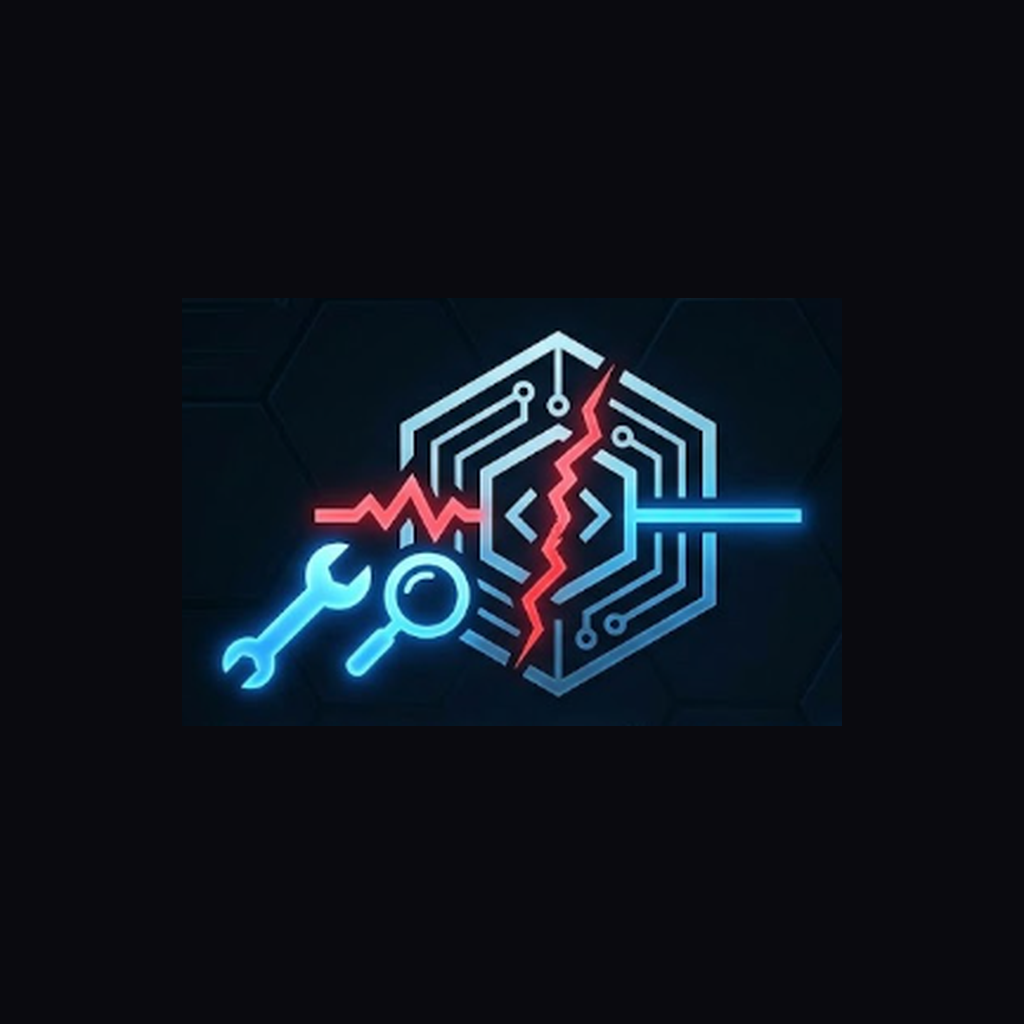
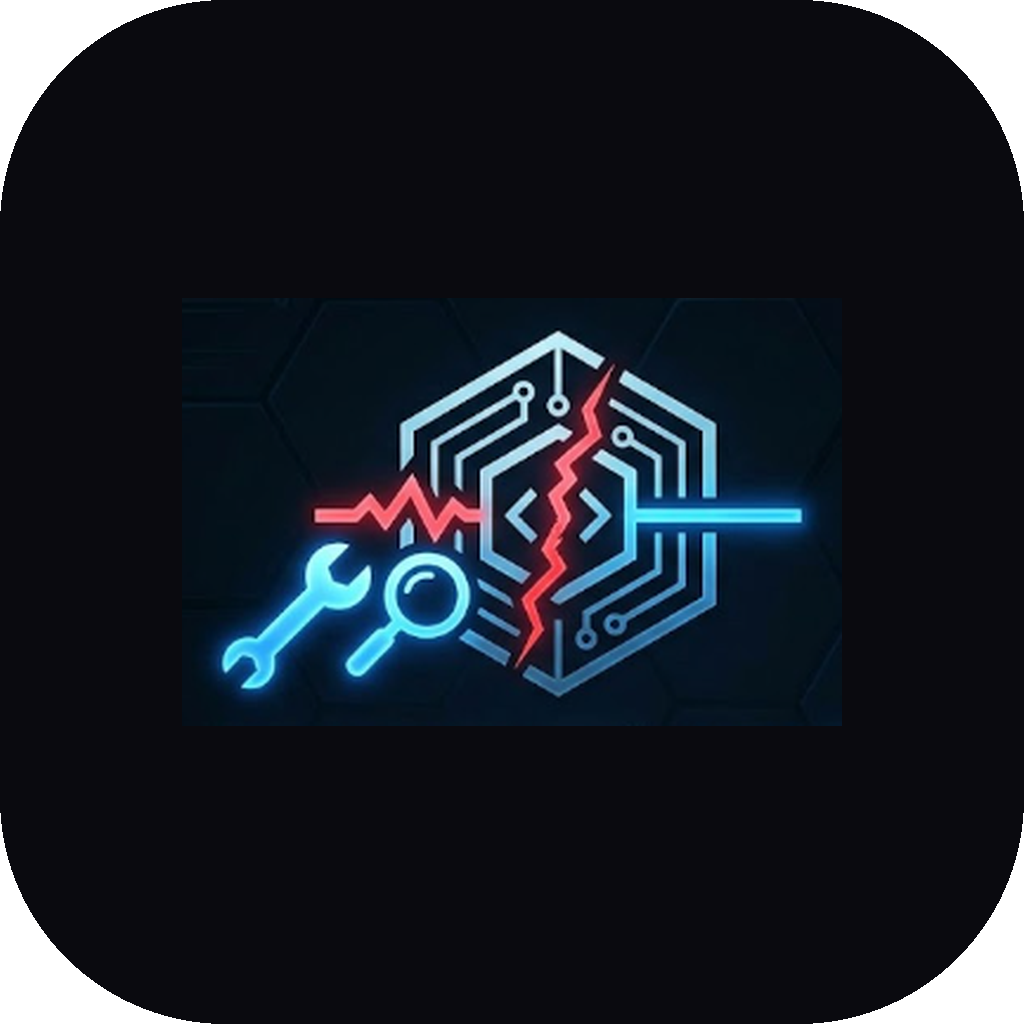
optimize apk github build

diff --git a/src/screens/ChallengeScreen.jsx b/src/screens/ChallengeScreen.jsx
@@ -1,7 +1,7 @@
 import React, { useEffect, useState, useRef } from "react";
-import { View, Text, TextInput, ScrollView, StyleSheet, Pressable, ActivityIndicator } from "react-native";
+import { View, Text, TextInput, ScrollView, StyleSheet, Pressable, ActivityIndicator, Alert } from "react-native";
 import AsyncStorage from "@react-native-async-storage/async-storage";
-import { Play, Send, RotateCcw, Trophy, CheckCircle2, AlertTriangle, ChevronRight } from "lucide-react-native";
+import { Play, Send, RotateCcw, Trophy, CheckCircle2, AlertTriangle, ChevronRight, Lock, Database } from "lucide-react-native";
 import api from "../api/axios";
 import { useAuth } from "../context/AuthContext";
 import { useSettings } from "../context/SettingsContext";
@@ -31,6 +31,9 @@ export default function ChallengeScreen({ route, navigation }) {
   const [loading, setLoading] = useState(true);
   const [running, setRunning] = useState(false);
   const [nextSlug, setNextSlug] = useState(null);
+  const [solution, setSolution] = useState(null);
+  const [solutionLoading, setSolutionLoading] = useState(false);
+  const [usedSolution, setUsedSolution] = useState(false);
 
   useEffect(() => {
     (async () => {
@@ -50,6 +53,8 @@ export default function ChallengeScreen({ route, navigation }) {
     setStatus("idle");
     setAttempts(0);
     setReward(null);
+    setSolution(null);
+    setUsedSolution(false);
   }, [slug]);
 
   useEffect(() => {
@@ -85,8 +90,32 @@ export default function ChallengeScreen({ route, navigation }) {
     AsyncStorage.removeItem(draftKey(slug));
   };
 
+  const revealSolution = () => {
+    Alert.alert(
+      "Reveal solution?",
+      "This drops the reward for this challenge to 30% XP and coins, and skips any daily bonus. Your progress isn't affected either way.",
+      [
+        { text: "Cancel", style: "cancel" },
+        {
+          text: "Reveal",
+          style: "destructive",
+          onPress: async () => {
+            setSolutionLoading(true);
+            try {
+              const { data } = await api.get(`/challenges/${slug}/solution`);
+              setSolution(data.solution);
+              setUsedSolution(true);
+            } finally {
+              setSolutionLoading(false);
+            }
+          },
+        },
+      ]
+    );
+  };
+
   const submit = async () => {
-    const { data } = await api.post(`/challenges/${slug}/submit`, { code, attempts, usedSolution: false });
+    const { data } = await api.post(`/challenges/${slug}/submit`, { code, attempts, usedSolution });
     setReward(data);
     AsyncStorage.removeItem(draftKey(slug));
     setUser((prev) => (prev ? { ...prev, xp: prev.xp + data.xpEarned, coins: prev.coins + data.coinsEarned } : prev));
@@ -109,9 +138,9 @@ export default function ChallengeScreen({ route, navigation }) {
       <Text style={styles.title}>{challenge.title}</Text>
 
       <View style={styles.tabRow}>
-        {["report", "hints", "objective"].map((t) => (
+        {["report", "hints", "objective", ...(challenge.schema ? ["schema"] : []), "solution"].map((t) => (
           <Pressable key={t} onPress={() => setTab(t)} style={[styles.tabBtn, tab === t && styles.tabBtnActive]}>
-            <Text style={[styles.tabText, tab === t && styles.tabTextActive]}>
+            <Text style={[styles.tabText, tab === t && styles.tabTextActive]} numberOfLines={1}>
               {t === "report" ? "Bug Report" : t[0].toUpperCase() + t.slice(1)}
             </Text>
           </Pressable>
@@ -122,7 +151,70 @@ export default function ChallengeScreen({ route, navigation }) {
         {tab === "report" && <Text style={styles.bodyText}>{challenge.bugReport}</Text>}
         {tab === "hints" && challenge.hints.map((h, i) => <Text key={i} style={styles.bodyText}>• {h}</Text>)}
         {tab === "objective" && <Text style={styles.bodyText}>{challenge.objective}</Text>}
+
+        {tab === "schema" && challenge.schema && (
+          <View>
+            <View style={styles.schemaHeaderRow}>
+              <Database size={13} color={colors.cyan} />
+              <Text style={styles.schemaDialect}>{challenge.schema.dialect} schema</Text>
+            </View>
+            {challenge.schema.tables.map((t) => (
+              <View key={t.name} style={{ marginTop: 10 }}>
+                <Text style={styles.schemaTableName}>{t.name}</Text>
+                <View style={styles.schemaCreateBlock}>
+                  <Text style={styles.schemaCreateText}>{t.create}</Text>
+                </View>
+                <ScrollView horizontal showsHorizontalScrollIndicator={false} style={{ marginTop: 8 }}>
+                  <View>
+                    <View style={styles.schemaRow}>
+                      {t.columns.map((c) => (
+                        <Text key={c} style={styles.schemaHeaderCell}>{c}</Text>
+                      ))}
+                    </View>
+                    {t.rows.map((r, ri) => (
+                      <View key={ri} style={[styles.schemaRow, ri % 2 === 1 && { backgroundColor: colors.surface2 }]}>
+                        {r.map((cell, ci) => (
+                          <Text key={ci} style={styles.schemaCell}>{String(cell)}</Text>
+                        ))}
+                      </View>
+                    ))}
+                  </View>
+                </ScrollView>
+              </View>
+            ))}
+          </View>
+        )}
+
+        {tab === "solution" &&
+          (solution ? (
+            <View style={styles.solutionBlock}>
+              <Text style={styles.solutionText}>{solution}</Text>
+            </View>
+          ) : (
+            <View>
+              <View style={styles.solutionWarnRow}>
+                <Lock size={14} color={colors.warn} />
+                <Text style={styles.bodyText}>
+                  Revealing the solution drops this challenge's reward to 30% XP and coins, and skips any daily bonus.
+                </Text>
+              </View>
+              <Pressable onPress={revealSolution} style={styles.revealBtn} disabled={solutionLoading}>
+                {solutionLoading ? (
+                  <ActivityIndicator color={colors.text} size="small" />
+                ) : (
+                  <Text style={styles.revealBtnText}>Reveal Solution</Text>
+                )}
+              </Pressable>
+            </View>
+          ))}
       </Card>
+
+      {usedSolution && (
+        <View style={styles.usedSolutionBanner}>
+          <Lock size={12} color={colors.warn} />
+          <Text style={styles.usedSolutionText}>Solution revealed — this submission will earn a reduced reward.</Text>
+        </View>
+      )}
 
       <Text style={styles.fileLabel}>{challenge.fileName}</Text>
       <TextInput
@@ -214,6 +306,67 @@ const getStyles = (colors) =>
     tabText: { color: colors.muted, fontSize: 11, fontWeight: "600" },
     tabTextActive: { color: colors.text },
     bodyText: { color: colors.muted, fontSize: 12, lineHeight: 18, marginBottom: 4 },
+    schemaHeaderRow: { flexDirection: "row", alignItems: "center", gap: 6, marginBottom: 2 },
+    schemaDialect: { color: colors.cyan, fontSize: 11, fontFamily: "Courier", fontWeight: "600" },
+    schemaTableName: { color: colors.text, fontSize: 12, fontWeight: "700", marginBottom: 6 },
+    schemaCreateBlock: {
+      backgroundColor: editorColors.background,
+      borderWidth: 1,
+      borderColor: editorColors.border,
+      borderRadius: 8,
+      padding: 10,
+    },
+    schemaCreateText: { color: editorColors.text, fontFamily: "Courier", fontSize: 11.5, lineHeight: 17 },
+    schemaRow: { flexDirection: "row", borderBottomWidth: 1, borderBottomColor: colors.border },
+    schemaHeaderCell: {
+      minWidth: 110,
+      paddingVertical: 7,
+      paddingHorizontal: 10,
+      color: colors.muted,
+      fontSize: 10.5,
+      fontFamily: "Courier",
+      fontWeight: "700",
+      borderBottomWidth: 1,
+      borderBottomColor: colors.border,
+    },
+    schemaCell: {
+      minWidth: 110,
+      paddingVertical: 7,
+      paddingHorizontal: 10,
+      color: colors.text,
+      fontSize: 11,
+      fontFamily: "Courier",
+    },
+    solutionWarnRow: { flexDirection: "row", alignItems: "flex-start", gap: 8, marginBottom: 12 },
+    revealBtn: {
+      backgroundColor: colors.surface2,
+      borderWidth: 1,
+      borderColor: colors.warn,
+      borderRadius: 8,
+      paddingVertical: 10,
+      alignItems: "center",
+    },
+    revealBtnText: { color: colors.warn, fontSize: 12, fontWeight: "600" },
+    solutionBlock: {
+      backgroundColor: editorColors.background,
+      borderWidth: 1,
+      borderColor: editorColors.border,
+      borderRadius: 8,
+      padding: 12,
+    },
+    solutionText: { color: editorColors.text, fontFamily: "Courier", fontSize: 12, lineHeight: 18 },
+    usedSolutionBanner: {
+      flexDirection: "row",
+      alignItems: "center",
+      gap: 6,
+      backgroundColor: `${colors.warn}18`,
+      borderWidth: 1,
+      borderColor: `${colors.warn}55`,
+      borderRadius: 8,
+      padding: 10,
+      marginBottom: 14,
+    },
+    usedSolutionText: { color: colors.warn, fontSize: 11, flex: 1 },
     fileLabel: { color: colors.muted, fontSize: 11, fontFamily: "Courier", marginBottom: 6 },
     // Editor pane always stays dark for code readability, independent of app theme.
     editor: {

diff --git a/src/navigation/RootNavigator.jsx b/src/navigation/RootNavigator.jsx
@@ -70,7 +70,8 @@ function MainStack() {
 
 export default function RootNavigator() {
   const { user, loading } = useAuth();
-  const { colors } = useTheme();
+  const { colors, isLight } = useTheme();
+  const logoSource = isLight ? require("../../assets/logo-full-light.png") : require("../../assets/logo-full.png");
 
   // Once auth state is resolved, the app is "ready": drop the native splash
   // screen (visible on standalone/EAS builds) and hand off to the real UI.
@@ -83,7 +84,7 @@ export default function RootNavigator() {
   if (loading) {
     return (
       <View style={[styles.loadingScreen, { backgroundColor: colors.void }]}>
-        <Image source={require("../../assets/logo-full.png")} style={styles.loadingLogo} resizeMode="contain" />
+        <Image source={logoSource} style={styles.loadingLogo} resizeMode="contain" />
         <ActivityIndicator color={colors.violet} size="large" style={styles.loadingSpinner} />
       </View>
     );

diff --git a/src/screens/LoginScreen.jsx b/src/screens/LoginScreen.jsx
@@ -6,8 +6,9 @@ import PrimaryButton from "../components/PrimaryButton";
 
 export default function LoginScreen({ navigation }) {
   const { login, loginWithGoogle } = useAuth();
-  const { colors } = useTheme();
+  const { colors, isLight } = useTheme();
   const styles = React.useMemo(() => getStyles(colors), [colors]);
+  const logoSource = isLight ? require("../../assets/logo-full-light.png") : require("../../assets/logo-full.png");
   const [email, setEmail] = useState("");
   const [password, setPassword] = useState("");
   const [error, setError] = useState("");
@@ -41,7 +42,7 @@ export default function LoginScreen({ navigation }) {
   return (
     <KeyboardAvoidingView behavior={Platform.OS === "ios" ? "padding" : undefined} style={styles.flex}>
       <ScrollView contentContainerStyle={styles.container}>
-        <Image source={require("../../assets/logo-full.png")} style={styles.logo} resizeMode="contain" />
+        <Image source={logoSource} style={styles.logo} resizeMode="contain" />
 
         <Text style={styles.title}>Welcome back</Text>
         <Text style={styles.subtitle}>Log in to keep your streak alive.</Text>

diff --git a/src/screens/SignupScreen.jsx b/src/screens/SignupScreen.jsx
@@ -6,8 +6,9 @@ import PrimaryButton from "../components/PrimaryButton";
 
 export default function SignupScreen({ navigation }) {
   const { signup, loginWithGoogle } = useAuth();
-  const { colors } = useTheme();
+  const { colors, isLight } = useTheme();
   const styles = React.useMemo(() => getStyles(colors), [colors]);
+  const logoSource = isLight ? require("../../assets/logo-full-light.png") : require("../../assets/logo-full.png");
   const [name, setName] = useState("");
   const [email, setEmail] = useState("");
   const [password, setPassword] = useState("");
@@ -42,7 +43,7 @@ export default function SignupScreen({ navigation }) {
   return (
     <KeyboardAvoidingView behavior={Platform.OS === "ios" ? "padding" : undefined} style={styles.flex}>
       <ScrollView contentContainerStyle={styles.container}>
-        <Image source={require("../../assets/logo-full.png")} style={styles.logo} resizeMode="contain" />
+        <Image source={logoSource} style={styles.logo} resizeMode="contain" />
 
         <Text style={styles.title}>Create your account</Text>
         <Text style={styles.subtitle}>Start fixing real bugs today.</Text>

diff --git a/src/api/axios.js b/src/api/axios.js
@@ -1,9 +1,9 @@
 import axios from "axios";
 import * as SecureStore from "expo-secure-store";
 
-export const TOKEN_KEY = "faultline_token";
-
 const API_URL = process.env.EXPO_PUBLIC_API_URL;
+
+export const TOKEN_KEY = "faultline_token";
 
 const api = axios.create({ baseURL: API_URL });
 